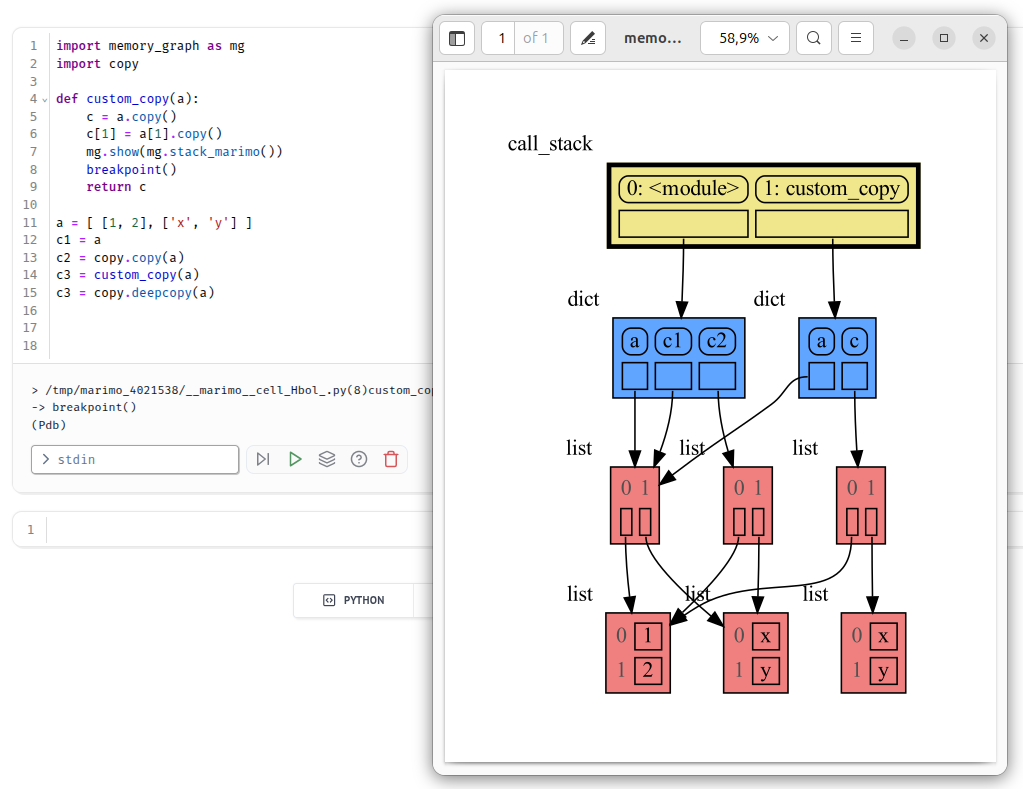
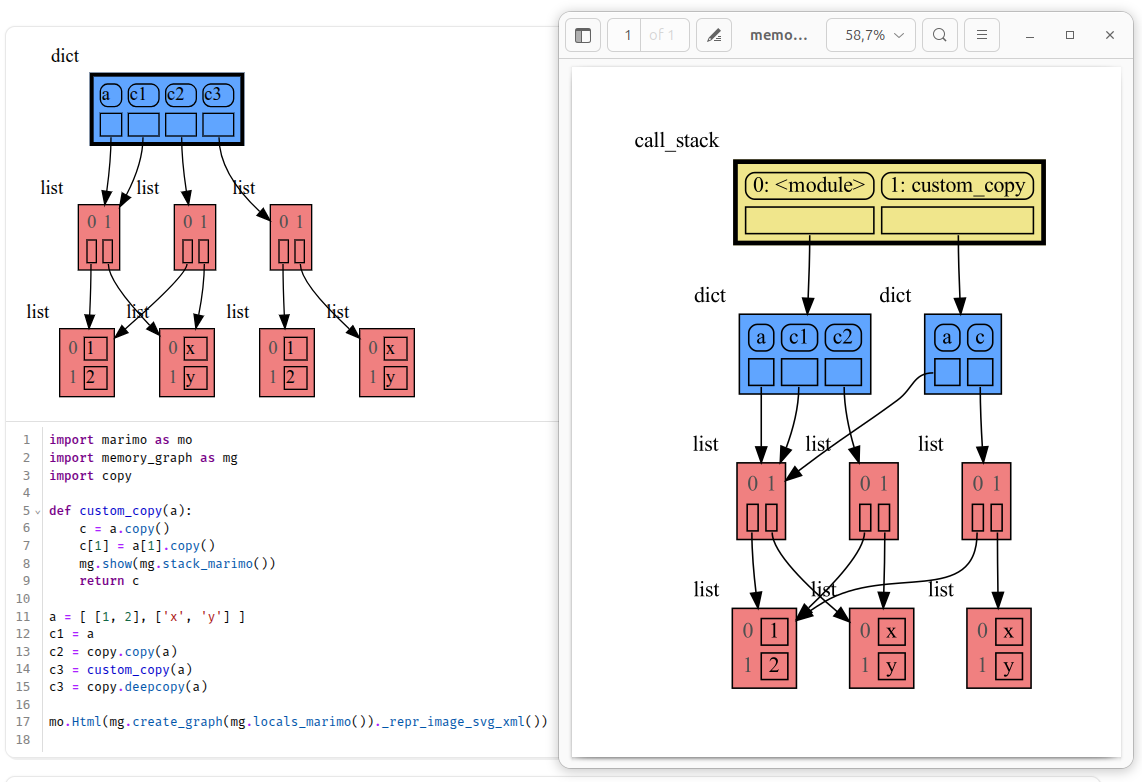
Marimo inline drawing graph on last line of cell only

diff --git a/src/marimo_example.py b/src/marimo_example.py
@@ -6,6 +6,7 @@ app = marimo.App(width="medium")
 
 @app.cell
 def _():
+    import marimo as mo
     import memory_graph as mg
     import copy
 
@@ -13,7 +14,6 @@ def _():
         c = a.copy()
         c[1] = a[1].copy()
         mg.show(mg.stack_marimo())
-        breakpoint()
         return c
 
     a = [ [1, 2], ['x', 'y'] ]
@@ -21,6 +21,8 @@ def _():
     c2 = copy.copy(a)
     c3 = custom_copy(a)
     c3 = copy.deepcopy(a)
+
+    mo.Html(mg.create_graph(mg.locals_marimo())._repr_image_svg_xml())
 
     return
 
